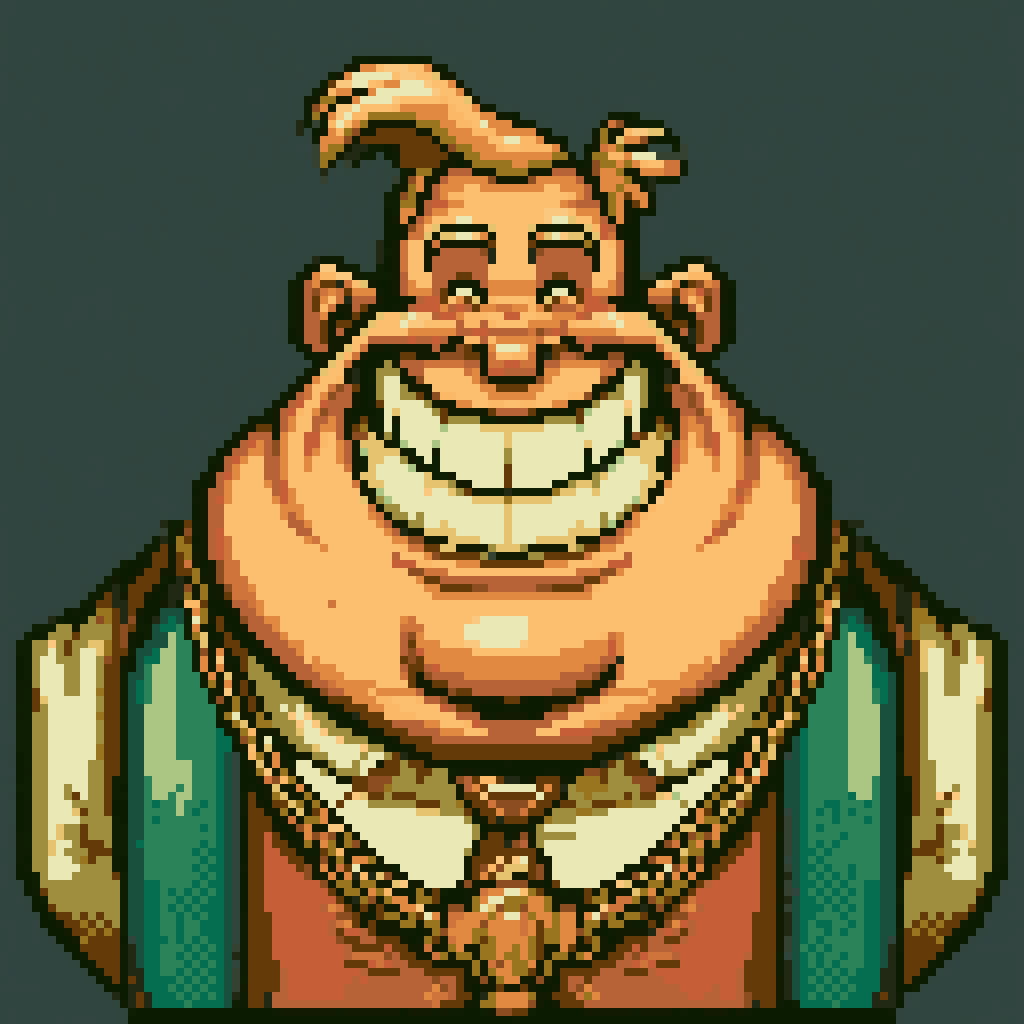
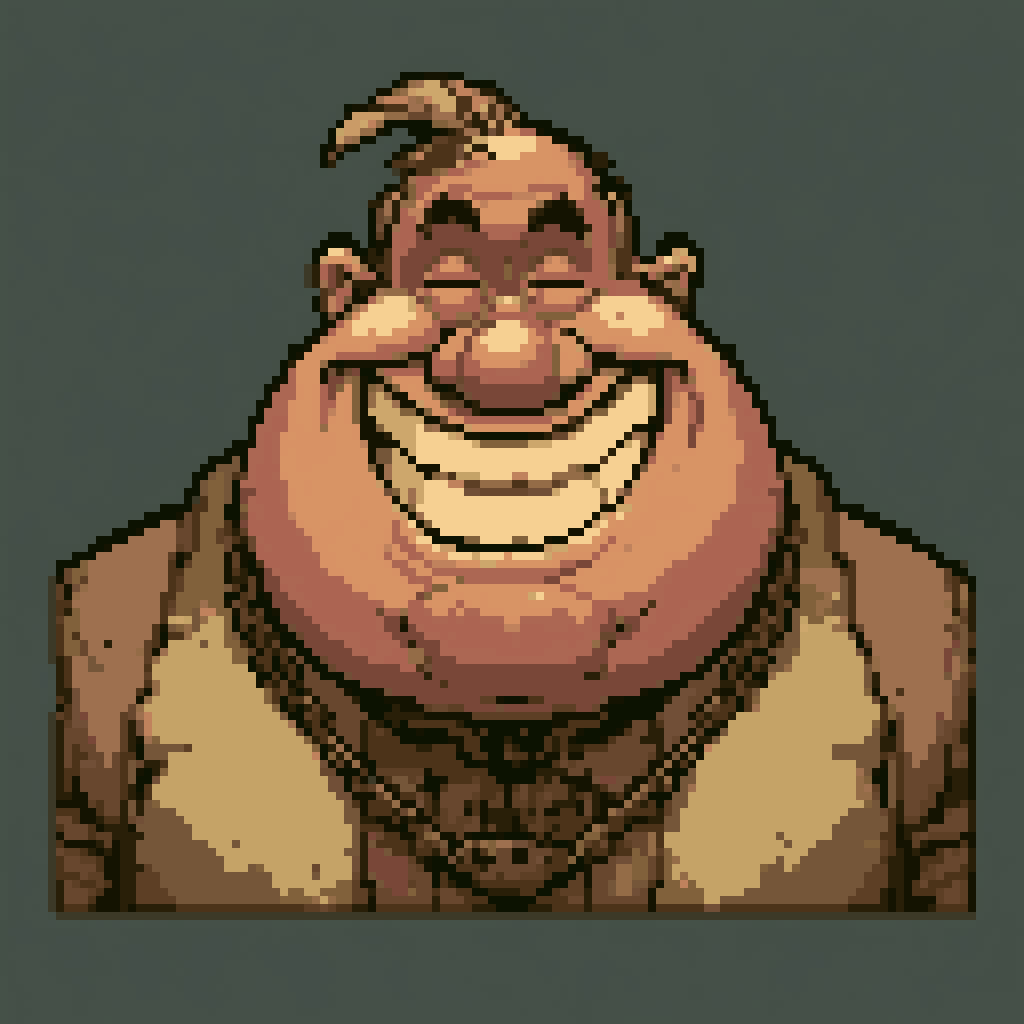
feat(figuren): Zwirn und Kaisertür im zweiten Lauf, Sammlung vollständig
Beide Nachläufe haben getroffen, was die nachgeschärften Prompts verlangt haben.

Zwirn liegt jetzt bei 37.238 statt 84.778 Farben und in gedecktem Altrosa und
Sandton statt Orange und Türkis. Die Karikatur ist dieselbe geblieben, das Grinsen
füllt weiter das halbe Gesicht.

Der Poststapel wächst über die Türkante hinaus aus dem Bild, damit hat das Motiv
seinen Größenwitz zurück, und die Tür steht vor flachem Grund statt in einem Raum.

Damit sind alle neunzehn Motive abgenommen. Der Außendienst bleibt bewusst ohne
Porträt, er hat jede Schicht ein anderes Gesicht.

Claude-Session: https://claude.ai/code/session_01LaWoAAhgqTvg4Qs9qHsaRU

diff --git a/assets/figuren/README.md b/assets/figuren/README.md
@@ -18,7 +18,7 @@ die man ansieht; das Original ist der Beleg.
 | Grundname | Figur | Stand |
 |---|---|---|
 | `01-knoeterich` | Amtsrat a. D. Knöterich | abgenommen |
-| `02-zwirn` | Bürgermeister Alfons Zwirn | Nachlauf, Palette |
+| `02-zwirn` | Bürgermeister Alfons Zwirn | abgenommen (2. Lauf) |
 | `03-bramsche` | Registratorin Ottilie Bramsche | abgenommen |
 | `04-zapf` | Hausmeister Reinhold Zapf | abgenommen |
 | `05-lisbeth` | Praktikantin Lisbeth Fuhr | abgenommen |
@@ -36,13 +36,19 @@ die man ansieht; das Original ist der Beleg.
 | `17-anlage3` | Anlage 3, Kater | abgenommen |
 | `18-konrad` | Konrad zu Händen Aufschub | abgenommen |
 | `19-aussendienst` | Der Außendienst (Spieler) | bewusst ausgelassen, braucht keins |
-| `20-kaisertuer` | Die Tür des Kaisers | Nachlauf, Stapel zu klein |
+| `20-kaisertuer` | Die Tür des Kaisers | abgenommen (2. Lauf) |
 
 ## Abnahme (22.08.2026)
 
-Matthias hat die Sammlung durchgesehen und **siebzehn der neunzehn Motive
-abgenommen**. Neu laufen nur Zwirn (Palette) und die Kaisertür (Stapel zu klein).
-Ihre Prompts in `figuren-bildprompts.md` sind dafür nachgeschärft.
+Matthias hat die Sammlung durchgesehen und **siebzehn der neunzehn Motive sofort
+abgenommen**. Zwirn (Palette) und die Kaisertür (Stapel zu klein) sind mit
+nachgeschärften Prompts ein zweites Mal gelaufen und im zweiten Anlauf
+abgenommen worden. Damit ist die Sammlung vollständig.
+
+Der zweite Lauf hat beides behoben. Zwirn liegt jetzt bei 37.238 statt 84.778
+Farben und in gedecktem Altrosa und Sandton statt Orange und Türkis. Der
+Poststapel wächst über die Türkante hinaus aus dem Bild, und die Tür steht vor
+flachem Grund statt in einem Raum.
 
 Die Befunde unten bleiben stehen, weil sie stimmen, aber sie sind entschieden. Der
 dritte Kopf bei Lott und Pahl, Pommers geronnene Brille, Milbs Halbprofil, Konrads
